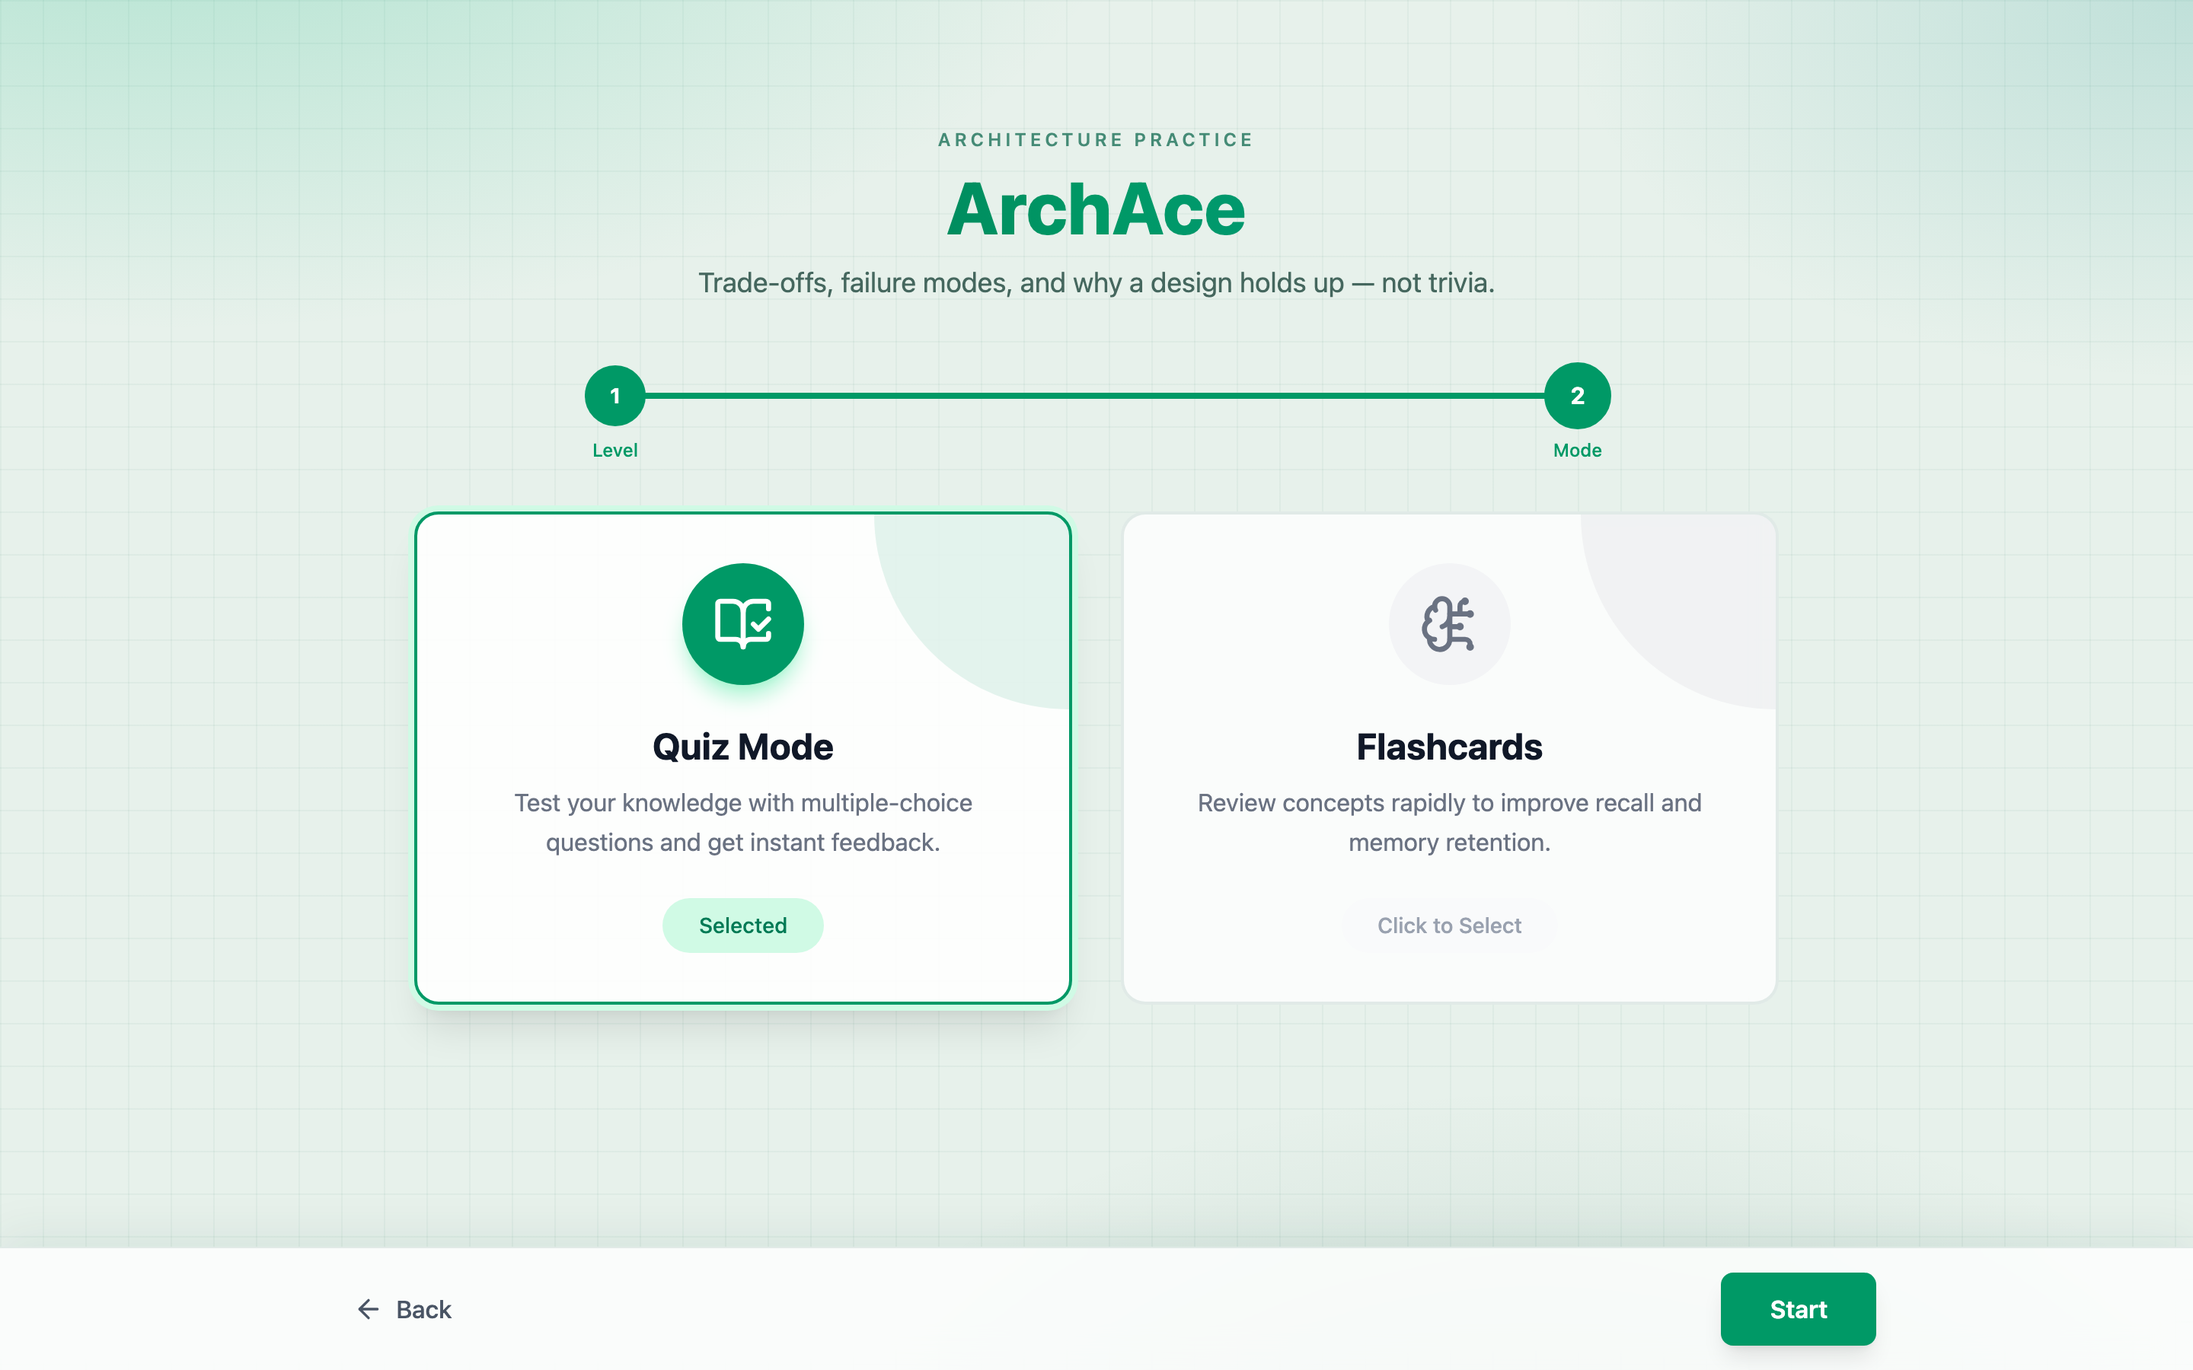
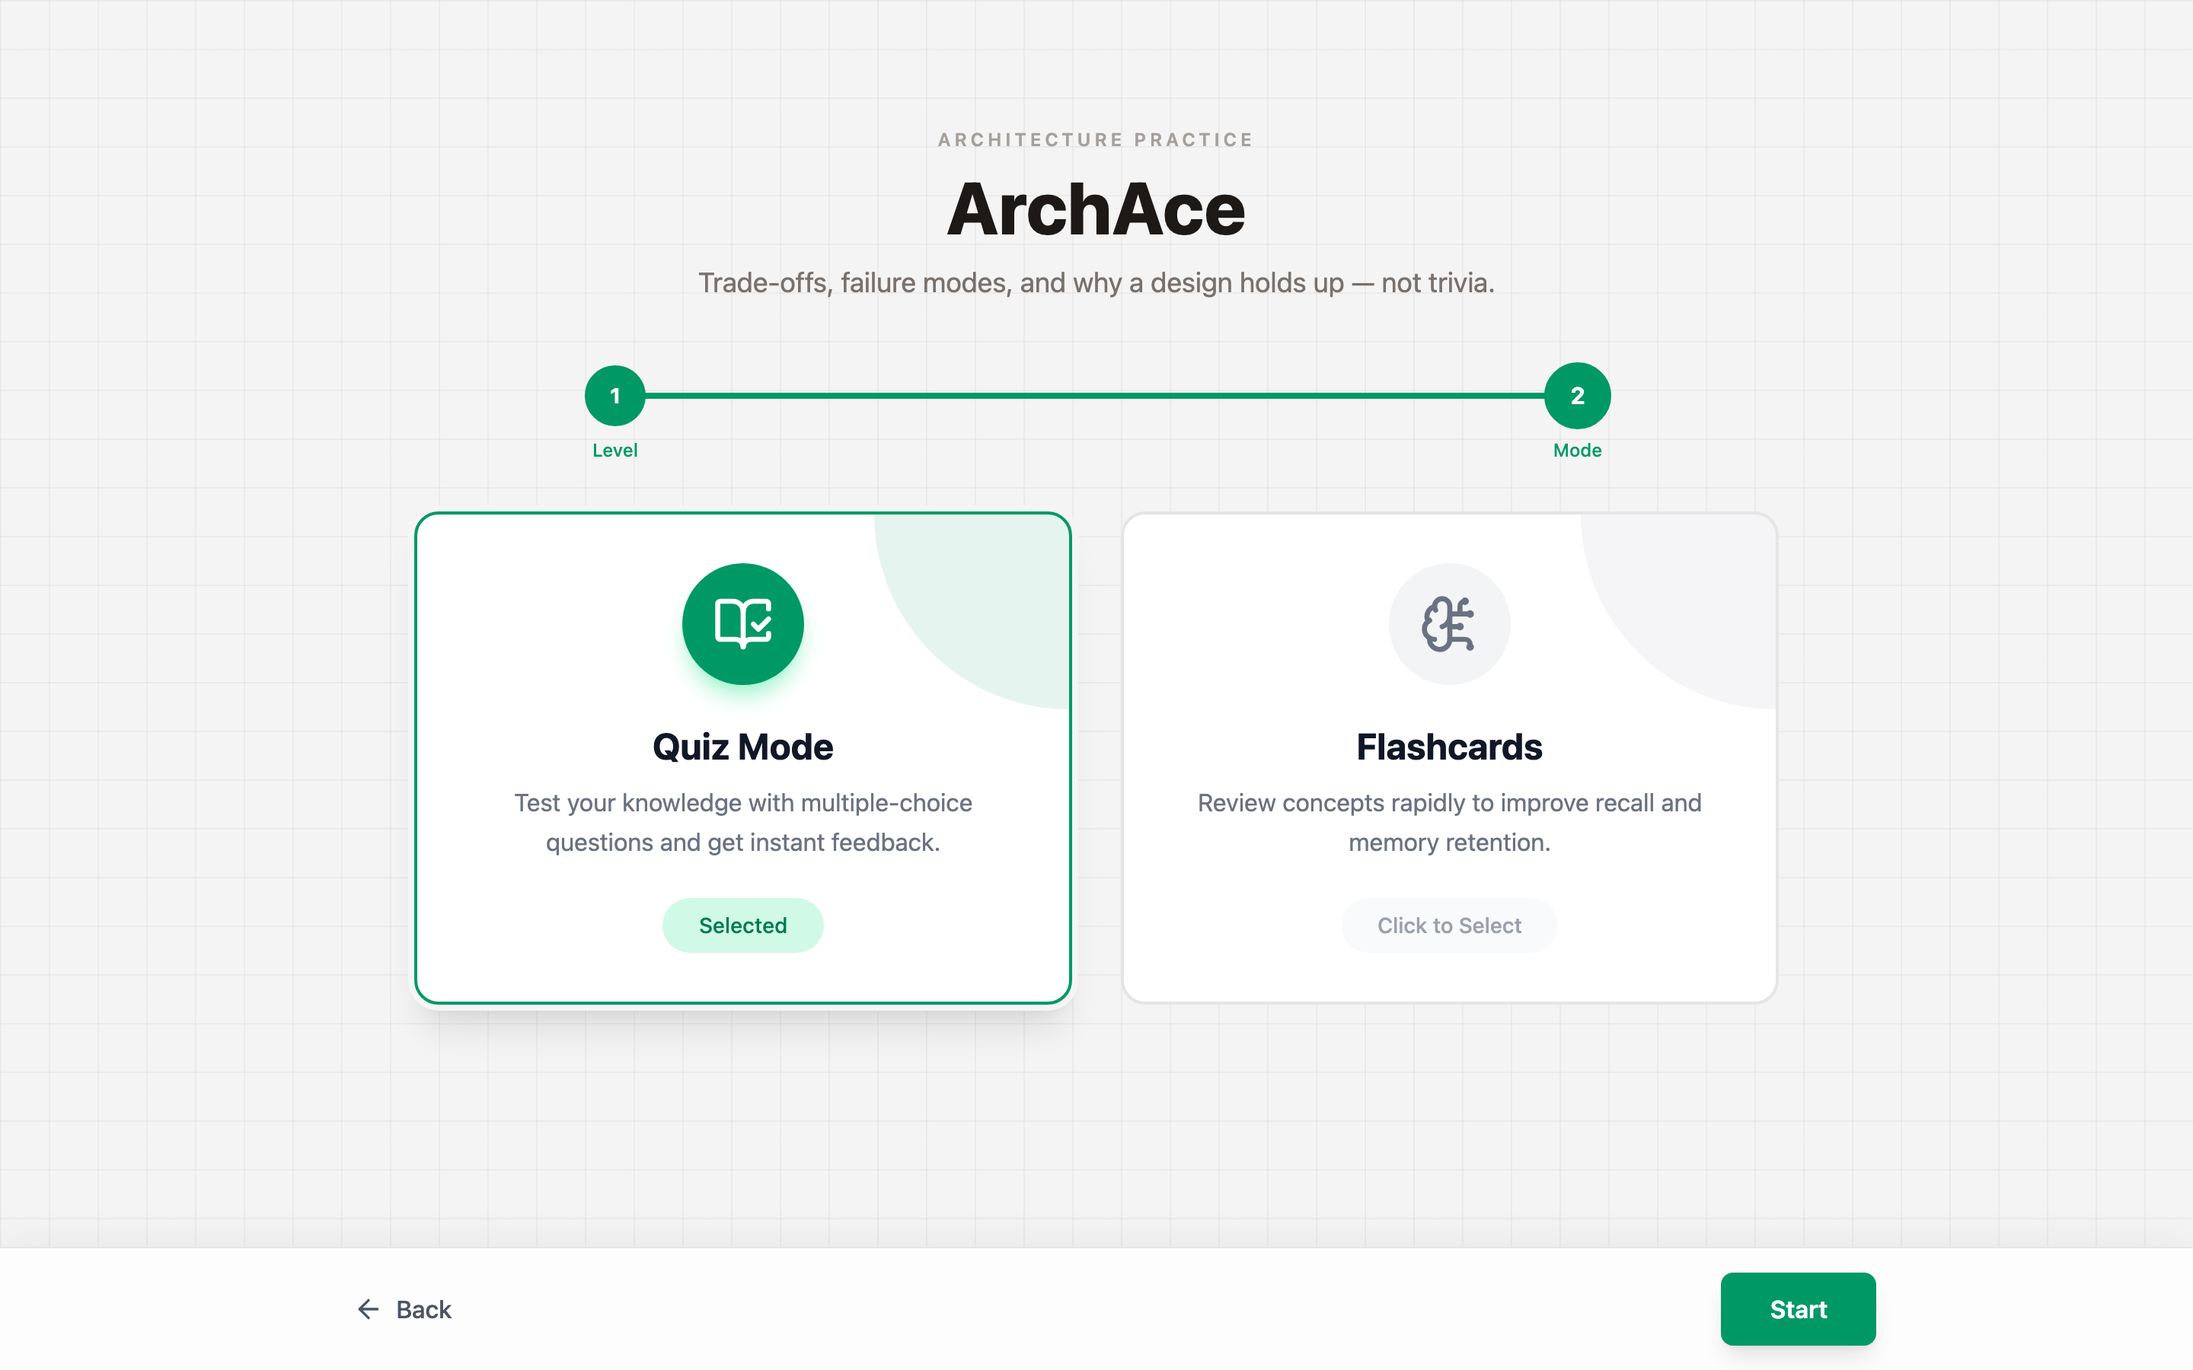
fix: use a neutral page and keep green as an accent (#5)
The previous theme stacked green on green. Background, type, and cards are stone/gray; emerald is only for selection and primary actions. README screenshots match.

diff --git a/src/components/Wizard/Flashcard/FlashcardGame.tsx b/src/components/Wizard/Flashcard/FlashcardGame.tsx
@@ -118,14 +118,14 @@ export const FlashcardGame: React.FC<FlashcardGameProps> = ({ level, onExit }) =
             {/* Header */}
             <div className="flex flex-col md:flex-row justify-between items-center mb-8 gap-4">
                 <div>
-                    <h2 className="text-2xl font-bold text-emerald-900">Flashcards</h2>
+                    <h2 className="text-2xl font-bold text-stone-900">Flashcards</h2>
                     <p className="text-sm text-gray-500 mt-1">
                         Level: <span className="font-semibold text-emerald-600">{levelLabel}</span>
                     </p>
                 </div>
 
                 <div className="flex items-center gap-3">
-                    <div className="text-sm font-medium text-emerald-700 bg-emerald-50 border border-emerald-100 px-4 py-2 rounded-full">
+                    <div className="text-sm font-medium text-stone-700 bg-white border border-stone-200 px-4 py-2 rounded-full">
                         {currentIndex + 1} / {cards.length}
                     </div>
                     <div className="text-sm font-medium text-blue-700 bg-blue-50 border border-blue-100 px-4 py-2 rounded-full">
@@ -149,7 +149,7 @@ export const FlashcardGame: React.FC<FlashcardGameProps> = ({ level, onExit }) =
                             className="cursor-pointer select-none"
                         >
                             <motion.div
-                                className="relative w-full min-h-[320px] rounded-2xl shadow-[0_18px_50px_rgba(15,80,60,0.10)] border border-emerald-900/10"
+                                className="relative w-full min-h-[320px] rounded-2xl shadow-lg shadow-stone-200/80 border border-stone-200"
                                 animate={{ rotateY: isFlipped ? 180 : 0 }}
                                 transition={{ duration: 0.5, type: 'spring', stiffness: 300, damping: 30 }}
                                 style={{ transformStyle: 'preserve-3d' }}
@@ -161,11 +161,11 @@ export const FlashcardGame: React.FC<FlashcardGameProps> = ({ level, onExit }) =
                                 >
                                     <div className="mb-4 flex flex-col items-center gap-2">
                                         <TopicBadge section={currentCard.section} />
-                                        <div className="px-3 py-1 rounded-full bg-emerald-50 text-emerald-800 text-xs font-semibold uppercase tracking-wider">
+                                        <div className="px-3 py-1 rounded-full bg-stone-100 text-stone-600 text-xs font-semibold uppercase tracking-wider">
                                             Question
                                         </div>
                                     </div>
-                                    <h3 className="text-xl md:text-2xl font-bold text-emerald-950 leading-relaxed mb-6">
+                                    <h3 className="text-xl md:text-2xl font-bold text-stone-900 leading-relaxed mb-6">
                                         {currentCard.question}
                                     </h3>
 
@@ -180,16 +180,16 @@ export const FlashcardGame: React.FC<FlashcardGameProps> = ({ level, onExit }) =
 
                                 {/* Back - Answer */}
                                 <div
-                                    className="absolute inset-0 bg-gradient-to-br from-emerald-50 to-teal-50 rounded-2xl p-8 flex flex-col justify-center items-center text-center"
+                                    className="absolute inset-0 bg-stone-50 rounded-2xl p-8 flex flex-col justify-center items-center text-center"
                                     style={{ backfaceVisibility: 'hidden', transform: 'rotateY(180deg)' }}
                                 >
                                     <div className="mb-4 flex flex-col items-center gap-2">
                                         <TopicBadge section={currentCard.section} />
-                                        <div className="px-3 py-1 rounded-full bg-emerald-100 text-emerald-800 text-xs font-semibold uppercase tracking-wider">
+                                        <div className="px-3 py-1 rounded-full bg-stone-200 text-stone-700 text-xs font-semibold uppercase tracking-wider">
                                             Answer
                                         </div>
                                     </div>
-                                    <h3 className="text-xl md:text-2xl font-bold text-emerald-800 leading-relaxed">
+                                    <h3 className="text-xl md:text-2xl font-bold text-stone-900 leading-relaxed">
                                         {currentCard.answer}
                                     </h3>
                                     <p className="mt-4 text-sm text-gray-400 flex items-center gap-1">

diff --git a/src/components/Wizard/Quiz/QuizGame.tsx b/src/components/Wizard/Quiz/QuizGame.tsx
@@ -196,18 +196,18 @@ export const QuizGame: React.FC<QuizGameProps> = ({ level, onExit }) => {
         <div className="max-w-3xl mx-auto w-full min-h-[70vh] flex flex-col justify-center py-12 px-4">
             <div className="flex flex-col md:flex-row justify-between items-center mb-8 gap-4">
                 <div>
-                    <h2 className="text-2xl font-bold text-emerald-900">Quiz</h2>
-                    <p className="text-sm text-emerald-900/55 mt-1 capitalize">{level ?? 'junior'} · ~30 mixed questions</p>
+                    <h2 className="text-2xl font-bold text-stone-900">Quiz</h2>
+                    <p className="text-sm text-stone-500 mt-1 capitalize">{level ?? 'junior'} · ~30 mixed questions</p>
                 </div>
 
                 <div className="flex items-center gap-3">
-                    <div className="text-sm font-medium text-emerald-800 bg-white/70 border border-emerald-900/10 px-4 py-2 rounded-full">
+                    <div className="text-sm font-medium text-stone-700 bg-white border border-stone-200 px-4 py-2 rounded-full">
                         Question {currentIndex + 1} / {questions.length}
                     </div>
 
                     <div className={clsx(
                         "flex items-center gap-2 font-mono text-lg font-bold transition-colors bg-white/80 px-3 py-1 rounded-lg border",
-                        timeLeft <= 5 ? "text-red-600 border-red-200 animate-pulse" : "text-emerald-700 border-emerald-200"
+                        timeLeft <= 5 ? "text-red-600 border-red-200 animate-pulse" : "text-stone-700 border-stone-200"
                     )}>
                         <Clock size={20} />
                         <span>00:{timeLeft.toString().padStart(2, '0')}</span>
@@ -215,7 +215,7 @@ export const QuizGame: React.FC<QuizGameProps> = ({ level, onExit }) => {
 
                     <button
                         onClick={onExit}
-                        className="p-2 rounded-lg text-emerald-900/50 hover:text-red-700 hover:bg-red-50 transition-colors"
+                        className="p-2 rounded-lg text-stone-400 hover:text-red-700 hover:bg-red-50 transition-colors"
                         aria-label="Exit quiz"
                     >
                         <LogOut size={18} />
@@ -231,12 +231,12 @@ export const QuizGame: React.FC<QuizGameProps> = ({ level, onExit }) => {
                     animate={{ opacity: 1, x: 0 }}
                     exit={{ opacity: 0, x: -20 }}
                     transition={{ duration: 0.3 }}
-                    className="bg-white/90 backdrop-blur-sm rounded-2xl shadow-[0_18px_50px_rgba(15,80,60,0.10)] border border-emerald-900/10 p-8 mb-6"
+                    className="bg-white rounded-2xl shadow-lg shadow-stone-200/80 border border-stone-200 p-8 mb-6"
                 >
                     <div className="mb-5">
                         <TopicBadge section={currentQuestion.section} />
                     </div>
-                    <h3 className="text-xl md:text-2xl font-bold text-emerald-950 mb-8 leading-snug">
+                    <h3 className="text-xl md:text-2xl font-bold text-stone-900 mb-8 leading-snug">
                         {currentQuestion.question}
                     </h3>
 

diff --git a/src/components/Wizard/LevelSelection.tsx b/src/components/Wizard/LevelSelection.tsx
@@ -48,27 +48,27 @@ export const LevelSelection: React.FC<LevelSelectionProps> = ({ selectedLevel, o
                             className={clsx(
                                 "flex flex-col items-center p-8 rounded-2xl border-2 transition-all duration-300 relative overflow-hidden group text-left",
                                 isSelected
-                                    ? "border-emerald-600 bg-emerald-50/90 shadow-[0_16px_40px_rgba(16,185,129,0.18)]"
-                                    : "border-emerald-900/10 bg-white/80 backdrop-blur-sm hover:border-emerald-400 hover:shadow-lg"
+                                    ? "border-emerald-600 bg-white shadow-lg shadow-stone-200"
+                                    : "border-stone-200 bg-white hover:border-stone-300 hover:shadow-md"
                             )}
                         >
                             <div className={clsx(
                                 "w-16 h-16 rounded-2xl flex items-center justify-center mb-6 transition-colors duration-300",
-                                isSelected ? "bg-emerald-500 text-white" : "bg-gray-100 text-gray-500 group-hover:bg-emerald-100 group-hover:text-emerald-600"
+                                isSelected ? "bg-emerald-600 text-white" : "bg-stone-100 text-stone-500 group-hover:bg-stone-200 group-hover:text-stone-700"
                             )}>
                                 <Icon size={32} />
                             </div>
 
                             <h3 className={clsx(
                                 "text-xl font-bold mb-3 transition-colors",
-                                isSelected ? "text-emerald-800" : "text-gray-800"
+                                isSelected ? "text-stone-900" : "text-stone-800"
                             )}>
                                 {level.title}
                             </h3>
 
                             <p className={clsx(
                                 "text-sm leading-relaxed text-center",
-                                isSelected ? "text-emerald-700" : "text-gray-500"
+                                isSelected ? "text-stone-600" : "text-stone-500"
                             )}>
                                 {level.description}
                             </p>
@@ -76,7 +76,7 @@ export const LevelSelection: React.FC<LevelSelectionProps> = ({ selectedLevel, o
                             {isSelected && (
                                 <motion.div
                                     layoutId="outline"
-                                    className="absolute inset-0 border-2 border-emerald-500 rounded-2xl"
+                                    className="absolute inset-0 border-2 border-emerald-600 rounded-2xl"
                                     initial={false}
                                     transition={{ type: "spring", stiffness: 500, damping: 30 }}
                                 />

diff --git a/src/components/Wizard/WizardContainer.tsx b/src/components/Wizard/WizardContainer.tsx
@@ -62,13 +62,13 @@ export const WizardContainer: React.FC = () => {
     return (
         <div className="max-w-5xl mx-auto px-4 min-h-screen flex flex-col justify-center py-12 pb-32">
             <div className="text-center mb-10">
-                <p className="text-xs font-semibold tracking-[0.2em] uppercase text-emerald-800/70 mb-3">
+                <p className="text-xs font-semibold tracking-[0.2em] uppercase text-stone-400 mb-3">
                     Architecture practice
                 </p>
-                <h1 className="text-4xl md:text-5xl font-extrabold mb-3 bg-clip-text text-transparent bg-gradient-to-r from-emerald-800 via-emerald-600 to-teal-600">
+                <h1 className="text-4xl md:text-5xl font-extrabold mb-3 text-stone-900">
                     ArchAce
                 </h1>
-                <p className="text-lg text-emerald-950/70 max-w-xl mx-auto">
+                <p className="text-lg text-stone-500 max-w-xl mx-auto">
                     Trade-offs, failure modes, and why a design holds up — not trivia.
                 </p>
             </div>
@@ -101,7 +101,7 @@ export const WizardContainer: React.FC = () => {
             </div>
 
             {/* Sticky Bottom Navigation */}
-            <div className="fixed bottom-0 left-0 right-0 bg-white/80 backdrop-blur-md border-t border-emerald-900/10 p-4 shadow-[0_-8px_30px_rgba(15,80,60,0.08)] z-50">
+            <div className="fixed bottom-0 left-0 right-0 bg-white/90 backdrop-blur-md border-t border-stone-200 p-4 shadow-[0_-8px_24px_rgba(0,0,0,0.04)] z-50">
                 <div className="max-w-5xl mx-auto flex justify-between items-center">
                     <button
                         onClick={handleBack}

diff --git a/src/index.css b/src/index.css
@@ -2,9 +2,6 @@
 
 :root {
   color-scheme: light;
-  --ace-ink: #12352b;
-  --ace-muted: #4b6b61;
-  --ace-line: rgba(16, 80, 64, 0.12);
 }
 
 html,
@@ -15,15 +12,12 @@ body,
 
 body {
   margin: 0;
-  color: var(--ace-ink);
-  background-color: #e7f1eb;
+  color: #1c1917;
+  background-color: #f4f4f5;
   background-image:
-    radial-gradient(ellipse 1100px 560px at 8% -12%, rgba(16, 185, 129, 0.28), transparent 58%),
-    radial-gradient(ellipse 800px 480px at 100% 0%, rgba(13, 148, 136, 0.18), transparent 52%),
-    radial-gradient(ellipse 900px 500px at 70% 110%, rgba(6, 78, 59, 0.12), transparent 55%),
-    linear-gradient(rgba(15, 90, 72, 0.045) 1px, transparent 1px),
-    linear-gradient(90deg, rgba(15, 90, 72, 0.045) 1px, transparent 1px);
-  background-size: auto, auto, auto, 28px 28px, 28px 28px;
+    linear-gradient(rgba(24, 24, 27, 0.04) 1px, transparent 1px),
+    linear-gradient(90deg, rgba(24, 24, 27, 0.04) 1px, transparent 1px);
+  background-size: 32px 32px;
   font-family: ui-sans-serif, system-ui, -apple-system, "Segoe UI", sans-serif;
 }
 

diff --git a/src/components/Wizard/RevisionModeSelection.tsx b/src/components/Wizard/RevisionModeSelection.tsx
@@ -41,8 +41,8 @@ export const RevisionModeSelection: React.FC<RevisionModeSelectionProps> = ({ se
                         className={clsx(
                             "cursor-pointer relative overflow-hidden rounded-2xl border-2 p-8 flex flex-col items-center text-center gap-6 transition-all duration-300 hover:shadow-xl group",
                             isSelected
-                                ? "border-emerald-600 bg-white/90 ring-4 ring-emerald-100 shadow-[0_16px_40px_rgba(16,185,129,0.16)]"
-                                : "border-emerald-900/10 bg-white/80 backdrop-blur-sm hover:border-emerald-400"
+                                ? "border-emerald-600 bg-white ring-4 ring-stone-100 shadow-lg"
+                                : "border-stone-200 bg-white hover:border-stone-300"
                         )}
                     >
                         {/* Background Decoration */}

diff --git a/src/components/Wizard/TopicBadge.tsx b/src/components/Wizard/TopicBadge.tsx
@@ -3,7 +3,7 @@ import React from 'react';
 export const TopicBadge: React.FC<{ section?: string }> = ({ section }) => {
     if (!section) return null;
     return (
-        <span className="inline-flex items-center px-3 py-1 rounded-full text-xs font-semibold tracking-wide bg-emerald-700/10 text-emerald-900 border border-emerald-700/15">
+        <span className="inline-flex items-center px-3 py-1 rounded-full text-xs font-semibold tracking-wide bg-stone-100 text-stone-700 border border-stone-200">
             {section}
         </span>
     );
